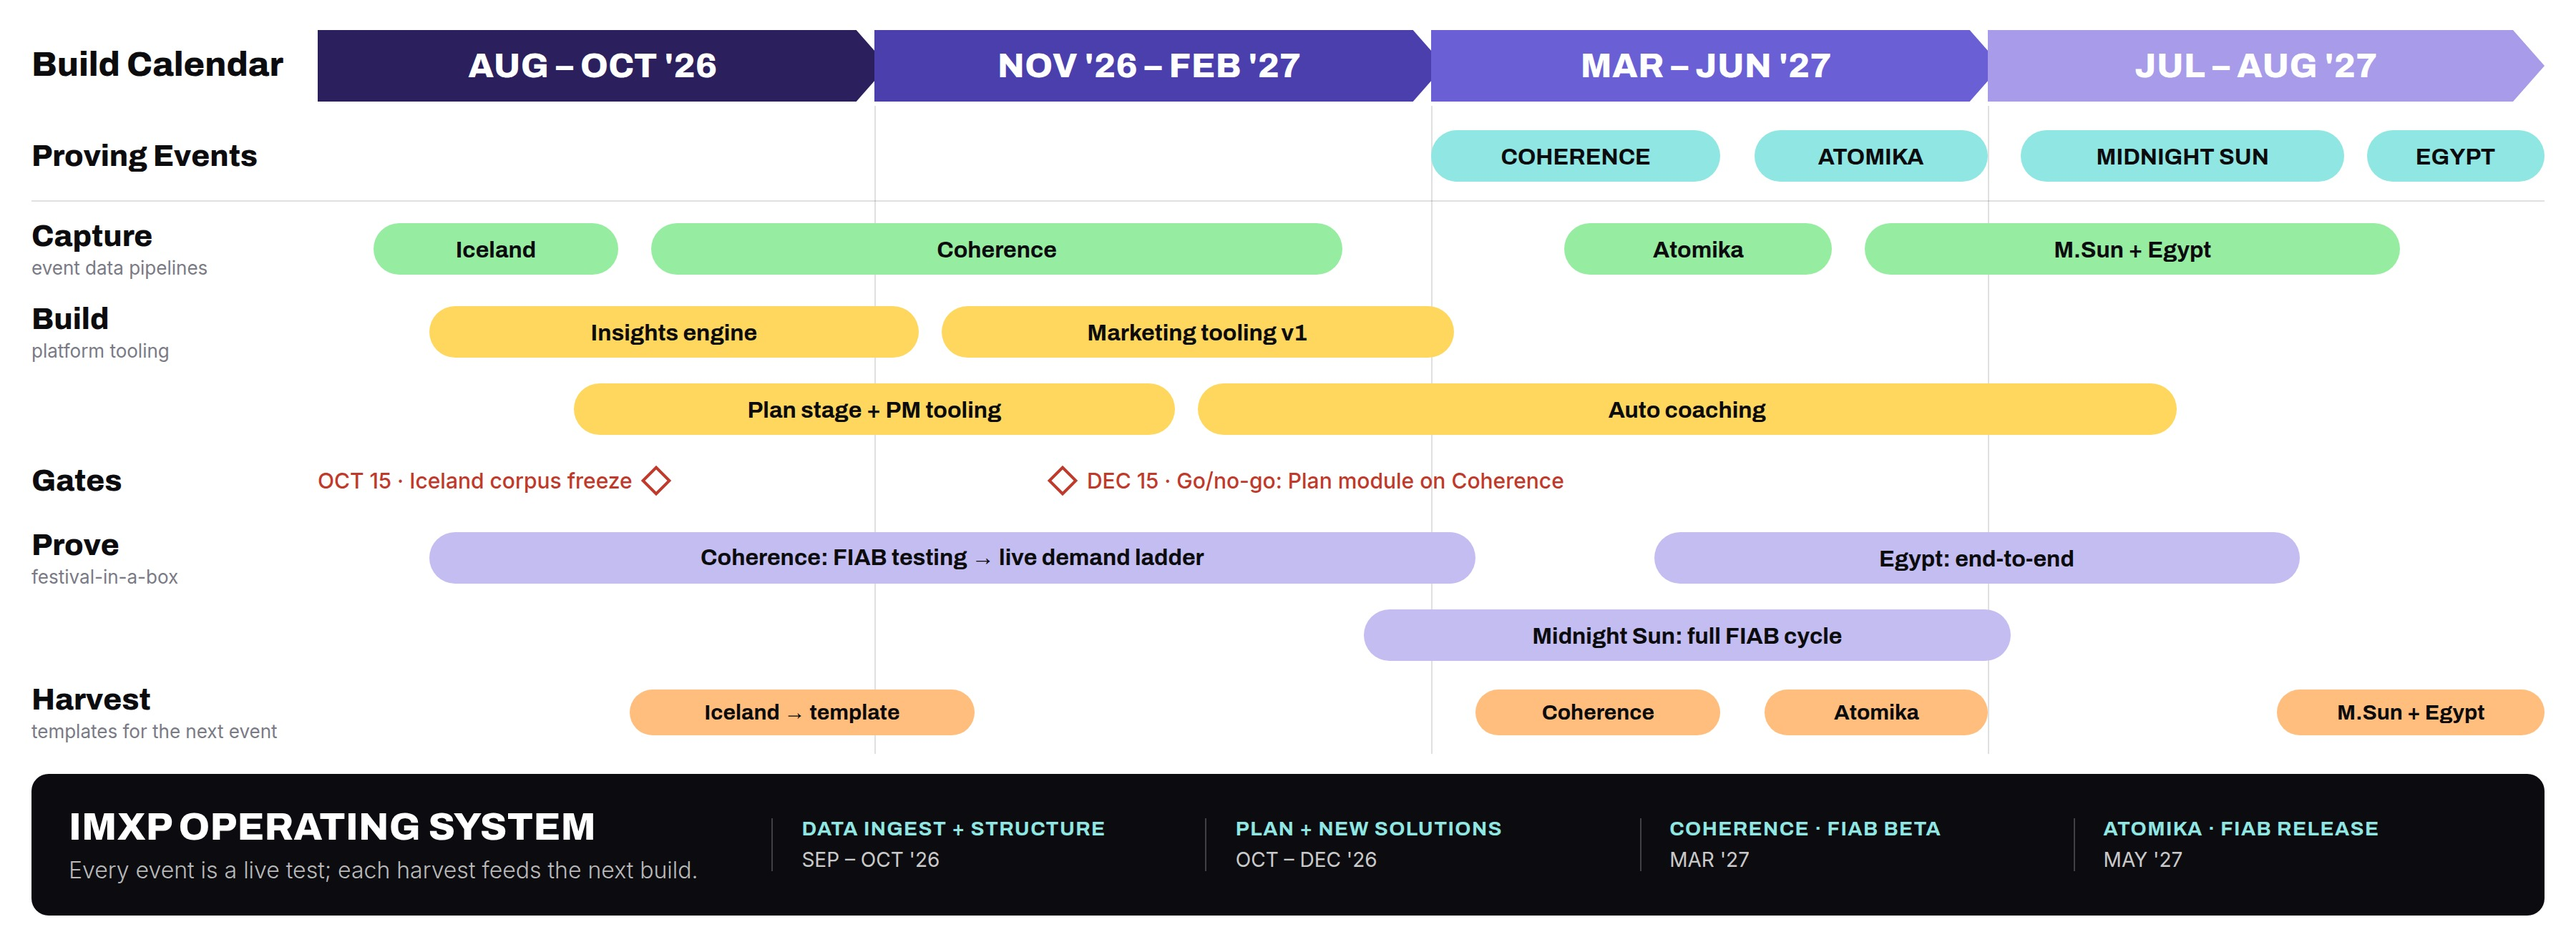
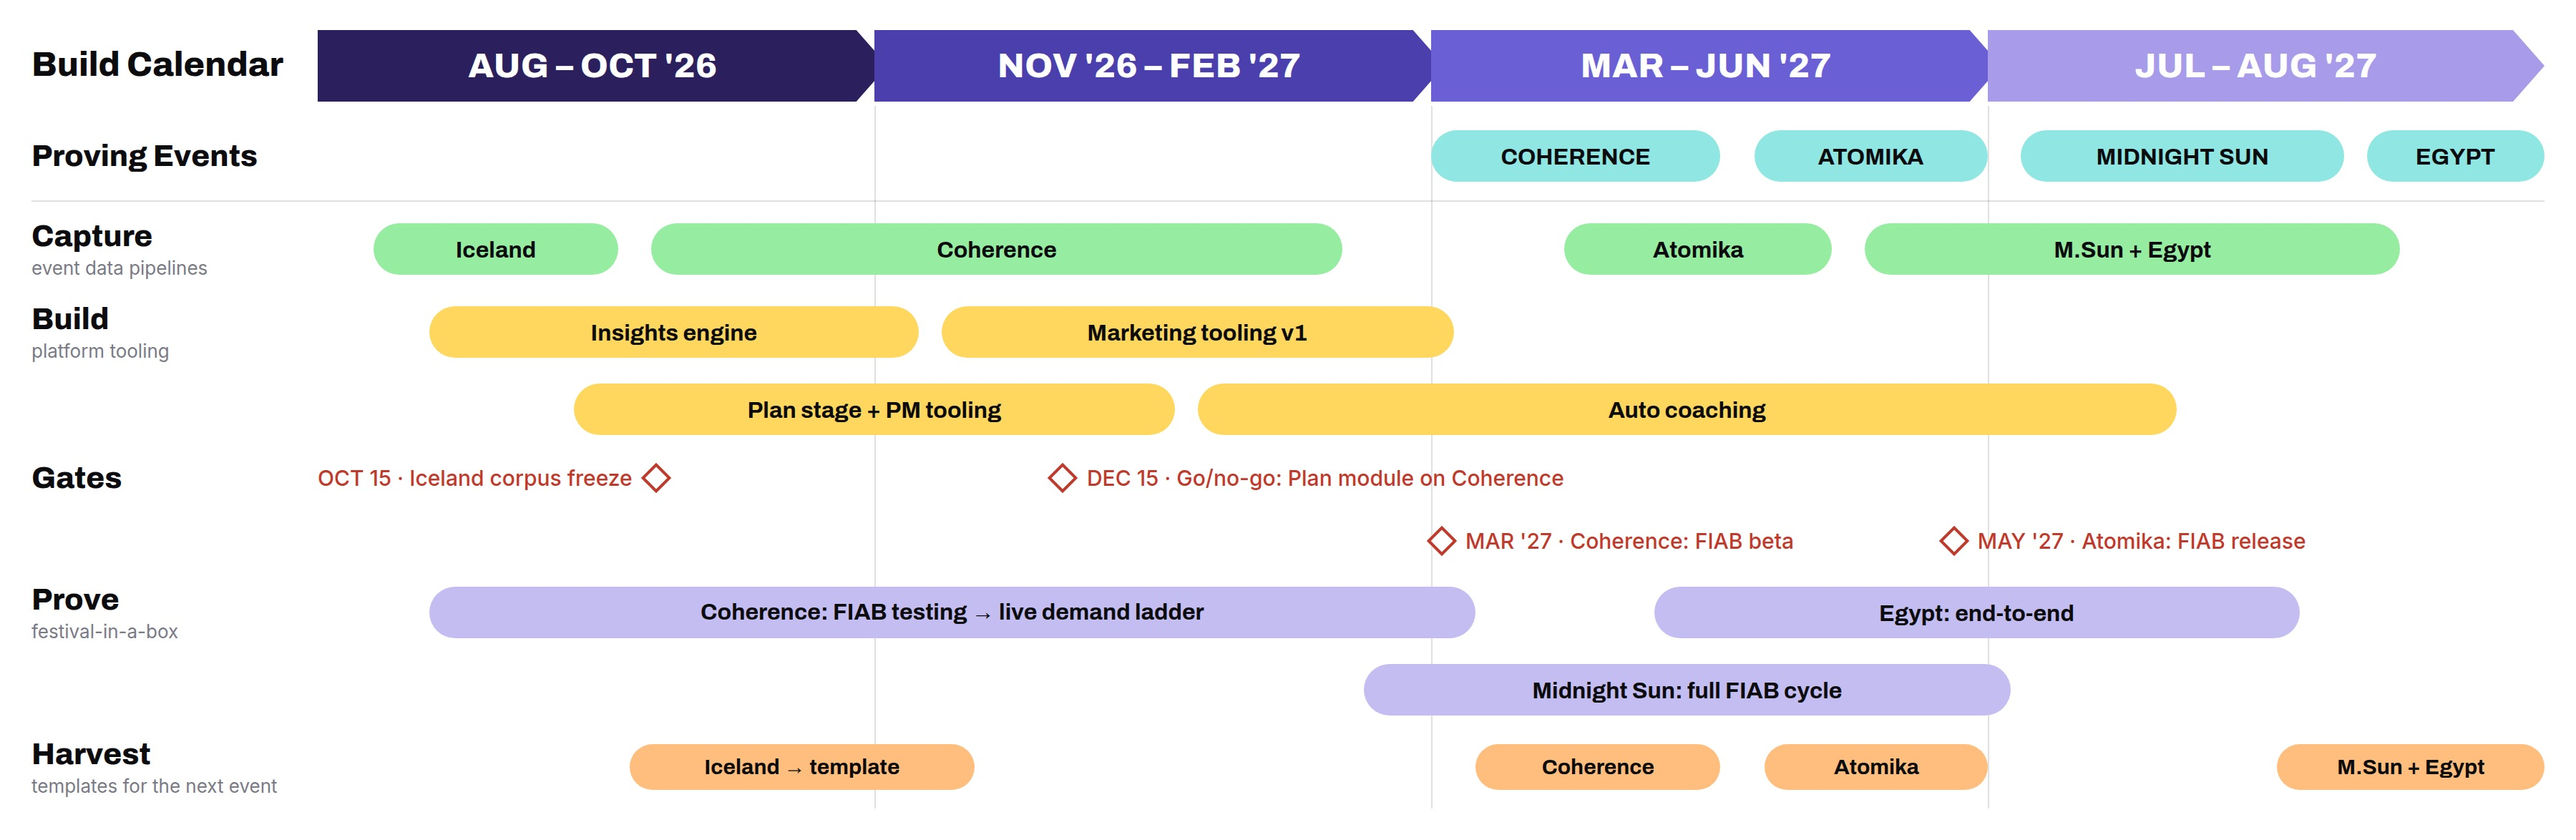
Redesign the Product slide; enlarge the Iceland badge again
Product slide was stacked, not designed. Rebuilt:
- The OS screenshot is gone. The five modules (Participation Layer, Unified
  Profile, Reputation Graph, Agent Crew, Portal) are now a native dark band
  across the foot of the slide, in the deck's own type and colour, so it
  anchors the layout instead of sitting on it as a pasted image.
- The gantt's black footer panel was dropped and its two FIAB milestones
  moved onto the Gates row as proper gate markers, where they belong. The
  chart is shorter and reads as a chart, not a chart plus a caption block.
- Chart scaled up to fill the column width so the calendar, the roadmap and
  the OS band line up instead of stepping in and out.

Iceland badge raised from 18cqh to 27cqh, roughly 270px on a 1080p screen.

diff --git a/index.html b/index.html
@@ -226,6 +226,21 @@
   .dcrow{margin-top:clamp(5px,.7cqh,10px);align-items:start}
   .dclab{font-weight:700;font-size:clamp(.5rem,.78cqw,.7rem);line-height:1.25;color:var(--dim-d)}
   .slide.light .dclab{color:var(--dim-l)}
+
+  /* IMXP OS module band - rebuilt natively, replaces the os-shot screenshot */
+  .osband{background:#0c0c10;border-radius:16px;
+    padding:clamp(11px,1.4cqw,20px) clamp(14px,1.8cqw,26px);
+    display:grid;grid-template-columns:auto repeat(5,1fr);gap:clamp(9px,1.4cqw,22px);align-items:stretch}
+  .osband .oslab{display:flex;flex-direction:column;justify-content:center;
+    padding-right:clamp(10px,1.4cqw,20px);border-right:1px solid rgba(255,255,255,.2)}
+  .osk{font-family:var(--disp);font-weight:700;letter-spacing:.15em;text-transform:uppercase;
+    color:var(--teal);font-size:clamp(.4rem,.6cqw,.54rem)}
+  .osn{font-family:var(--disp);font-weight:800;color:#fff;line-height:1.12;
+    font-size:clamp(.66rem,1.02cqw,.92rem);margin-top:.35em}
+  .osmod .n{font-family:var(--disp);font-weight:700;color:#fff;line-height:1.15;
+    font-size:clamp(.55rem,.8cqw,.73rem)}
+  .osmod .d{color:rgba(255,255,255,.56);line-height:1.35;margin-top:.42em;
+    font-size:clamp(.43rem,.63cqw,.57rem)}
   .devcal.compact .dcyr{padding:clamp(2px,.3cqh,5px) 0;font-size:clamp(.6rem,1.02cqw,.88rem)}
   .devcal.compact .ev,.devcal.compact .dcbar{padding:clamp(2px,.3cqh,5px) clamp(4px,.55cqw,9px);
     font-size:clamp(.42rem,.64cqw,.58rem)}
@@ -270,9 +285,9 @@
   .expanel img{height:clamp(60px,12cqh,118px);width:auto;max-width:100%;object-fit:contain;margin:0 auto}
 
   /* iceland eclipse badge on the events slide */
-  .eventbadge{position:absolute;top:clamp(20px,3.4cqh,38px);left:50%;transform:translateX(-50%);z-index:3;
-    height:clamp(104px,18cqh,180px);width:auto;image-rendering:auto}
-  @container (max-width:820px){ .eventbadge{height:88px} }
+  .eventbadge{position:absolute;top:clamp(16px,2.6cqh,30px);left:50%;transform:translateX(-50%);z-index:3;
+    height:clamp(150px,27cqh,290px);width:auto}
+  @container (max-width:820px){ .eventbadge{height:118px} }
 
   /* glass cards over a photo (events slide) */
   .gsplit{display:grid;grid-template-columns:1fr 1fr;gap:clamp(14px,2.4cqw,36px)}
@@ -415,7 +430,7 @@
   </section>
 
   <!-- 5 · EVENTS · ICELAND -->
-  <section class="slide photo" style="padding-top:clamp(140px,24cqh,254px)">
+  <section class="slide photo" style="padding-top:clamp(186px,32cqh,344px)">
     <div class="bg" style="background-image:url('media/photos/ceremony.jpg')"></div>
     <div class="shade" style="background:linear-gradient(180deg,rgba(0,0,0,.66),rgba(0,0,0,.44) 38%,rgba(0,0,0,.74))"></div>
     <div class="chip">Events</div>
@@ -533,8 +548,18 @@
         </div>
       </div>
     </div>
-    <div class="st imgpanel mt-s" style="border:0;background:transparent;flex:none;text-align:center"><img style="width:auto;max-width:100%;max-height:35cqh;margin:0 auto" src="media/people/product-gantt.jpg" alt="IMXP platform build roadmap, Aug 2026 to Aug 2027: capture, build, prove, gates, harvest across Atomika, Coherence, Midnight Sun and Egypt" /></div>
-    <div class="st mt-s" style="flex:none;text-align:center"><img class="imgpanel" style="width:auto;max-width:100%;max-height:15cqh;margin:0 auto" src="media/people/os-shot.jpg" alt="IMXP Operating System, in build: Participation Layer, Unified Profile, Reputation Graph, Agent Crew, Portal" /></div>
+    <div class="st imgpanel mt-s" style="border:0;background:transparent;flex:none;text-align:center"><img style="width:auto;max-width:100%;max-height:45cqh;margin:0 auto" src="media/people/product-gantt.jpg" alt="IMXP platform build roadmap, Aug 2026 to Aug 2027: capture, build, prove, gates, harvest across Atomika, Coherence, Midnight Sun and Egypt" /></div>
+    <div class="st osband mt-s" style="flex:none">
+      <div class="oslab">
+        <div class="osk">In build</div>
+        <div class="osn">IMXP Operating<br/>System</div>
+      </div>
+      <div class="osmod"><div class="n">Participation Layer</div><div class="d">Volunteer, ritual, contribution events</div></div>
+      <div class="osmod"><div class="n">Unified Profile</div><div class="d">Identity + behavior + reputation</div></div>
+      <div class="osmod"><div class="n">Reputation Graph</div><div class="d">Trust scores, role progression</div></div>
+      <div class="osmod"><div class="n">Agent Crew</div><div class="d">Programmable AI workflows</div></div>
+      <div class="osmod"><div class="n">Portal</div><div class="d">Member-facing surface, deep personalization</div></div>
+    </div>
   </section>
 
   <!-- 9 · FIAB VIDEO DEMO -->

diff --git a/media/people/product-gantt.html b/media/people/product-gantt.html
@@ -128,11 +128,18 @@
   </div>
 
   <!-- gates -->
-  <div class="row" style="min-height:50px">
+  <div class="row" style="min-height:46px">
     <div class="rlab">Gates</div>
-    <div class="track" style="height:50px">
+    <div class="track" style="height:46px">
       <div class="gate" style="left:0">OCT 15 &middot; Iceland corpus freeze<span class="dia"></span></div>
       <div class="gate" style="left:33%"><span class="dia"></span>DEC 15 &middot; Go/no-go: Plan module on Coherence</div>
+    </div>
+  </div>
+  <div class="row" style="min-height:42px">
+    <div class="rlab"></div>
+    <div class="track" style="height:42px">
+      <div class="gate" style="left:50%"><span class="dia"></span>MAR '27 &middot; Coherence: FIAB beta</div>
+      <div class="gate" style="left:73%"><span class="dia"></span>MAY '27 &middot; Atomika: FIAB release</div>
     </div>
   </div>
 
@@ -162,17 +169,6 @@
     </div>
   </div>
 
-</div>
-
-<div class="panel">
-  <div>
-    <h3>IMXP OPERATING SYSTEM</h3>
-    <div class="cap">Every event is a live test; each harvest feeds the next build.</div>
-  </div>
-  <div class="ms"><div class="k">Data ingest + structure</div><div class="v">SEP &ndash; OCT '26</div></div>
-  <div class="ms"><div class="k">Plan + new solutions</div><div class="v">OCT &ndash; DEC '26</div></div>
-  <div class="ms"><div class="k">Coherence &middot; FIAB beta</div><div class="v">MAR '27</div></div>
-  <div class="ms"><div class="k">Atomika &middot; FIAB release</div><div class="v">MAY '27</div></div>
 </div>
 </body>
 </html>

diff --git a/scripts/render-gantt.js b/scripts/render-gantt.js
@@ -6,7 +6,7 @@ const path = require('path');
 (async () => {
   const root = path.resolve(__dirname, '..');
   const browser = await chromium.launch({ executablePath: '/usr/bin/google-chrome' });
-  const page = await browser.newPage({ viewport: { width: 1800, height: 700 }, deviceScaleFactor: 2 });
+  const page = await browser.newPage({ viewport: { width: 1800, height: 640 }, deviceScaleFactor: 2 });
   await page.goto('file://' + path.join(root, 'media/people/product-gantt.html'));
   await page.waitForTimeout(1200); // webfonts
   const el = await page.$('body');
